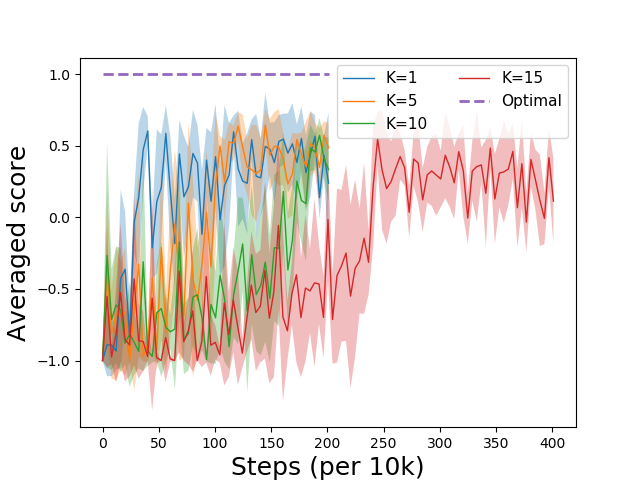
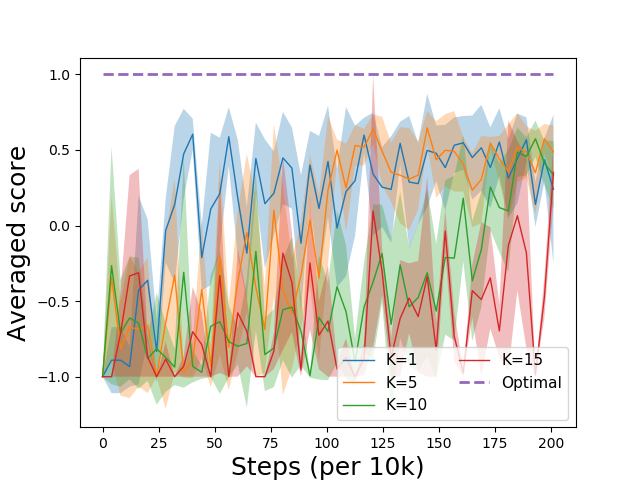
modify plot and sh script

diff --git a/plot_trainlog.py b/plot_trainlog.py
@@ -19,7 +19,7 @@ LUNARLANDER = LUNARLANDER_OLD
 GRIDWORLD = ['log/gridworld_k1',
              'log/gridworld_k5',
              'log/gridworld_k10',
-             'log/gridworld4M_k15']
+             'log/gridworld_k15']
 
 # Ks = list(range(1, 11)) + [15, 20, 25, 50, 100]
 Ks = [1,2,3,4,5]
@@ -72,7 +72,7 @@ def main():
             plt.plot(idx_list[i], avg_val_list[i], ':', label=label[i], linewidth=1)
         plt.fill_between(idx_list[i], avg_val_list[i] - std_val_list[i], avg_val_list[i] + std_val_list[i], alpha=0.3)
     if FOLDER_PATH == GRIDWORLD:
-        plt.plot(idx_list[0], [0.018]*len(idx_list[0]), '--', label="Optimal", linewidth=2)
+        plt.plot(idx_list[0], [0.252]*len(idx_list[0]), '--', label="Optimal", linewidth=2)
         plt.xlabel("Steps (per 10k)", fontsize=AXIS_FONT_SIZE)
     else:
         plt.xlabel("Episode", fontsize=AXIS_FONT_SIZE)
